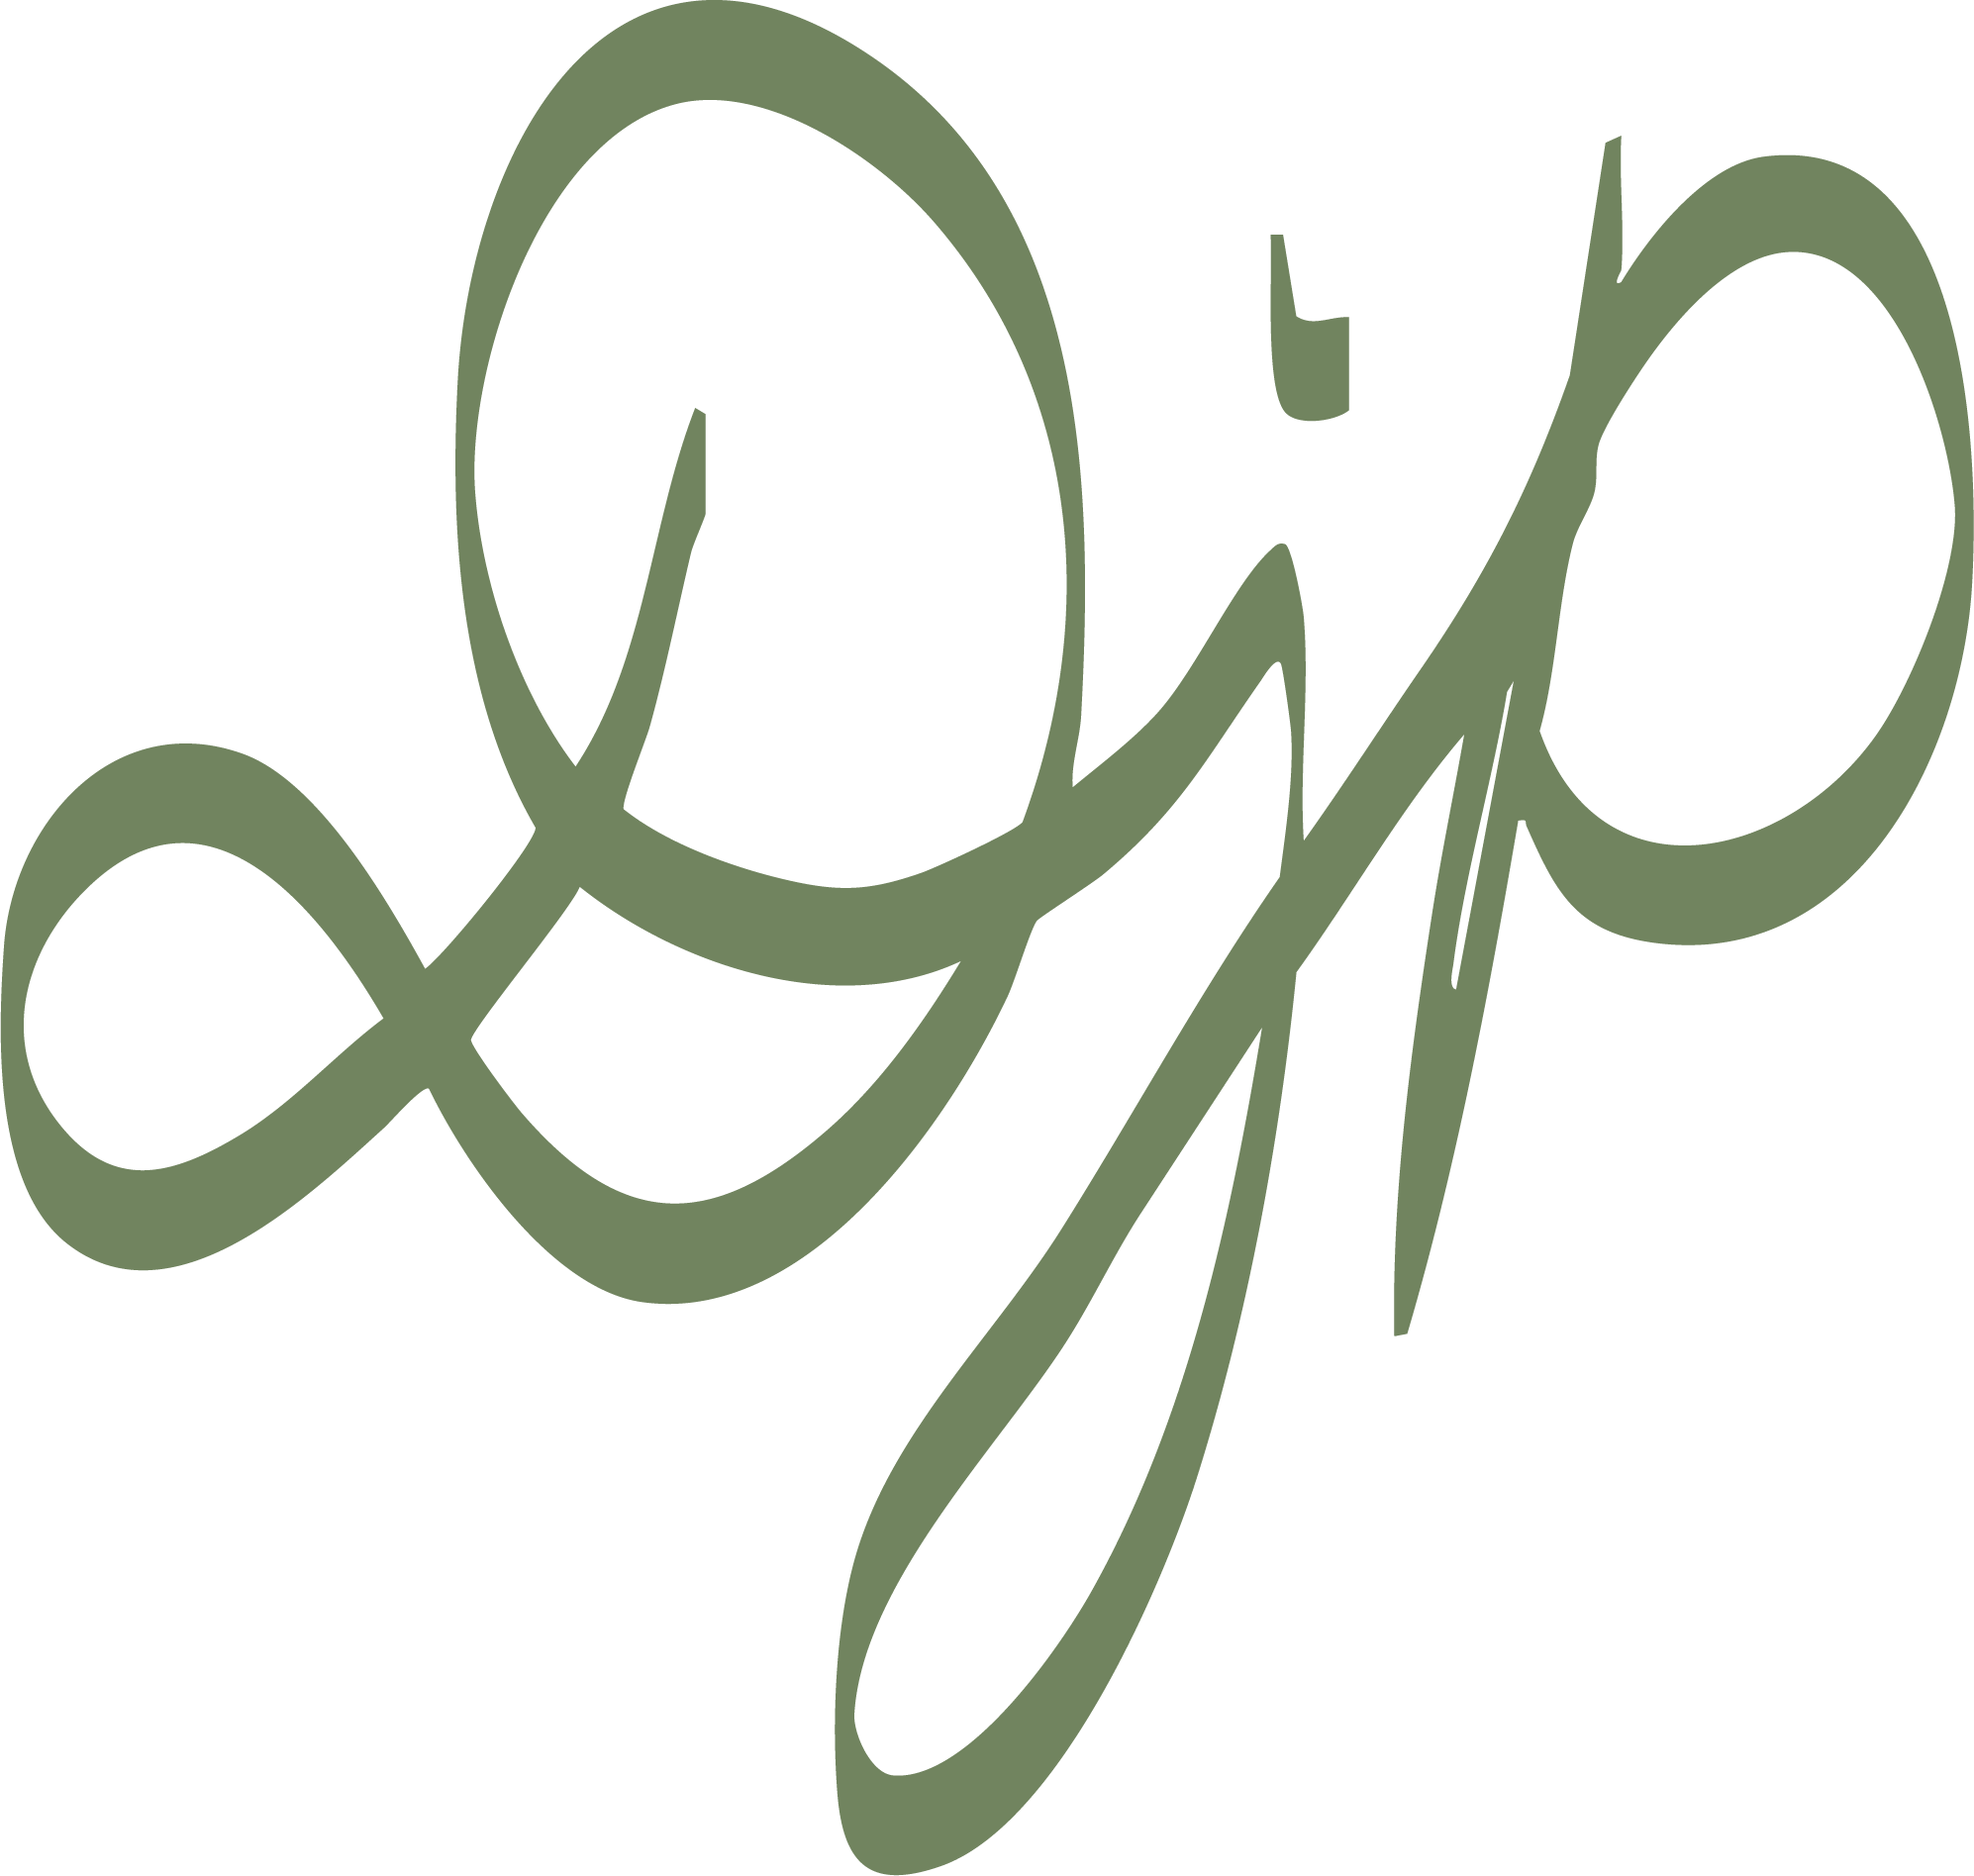
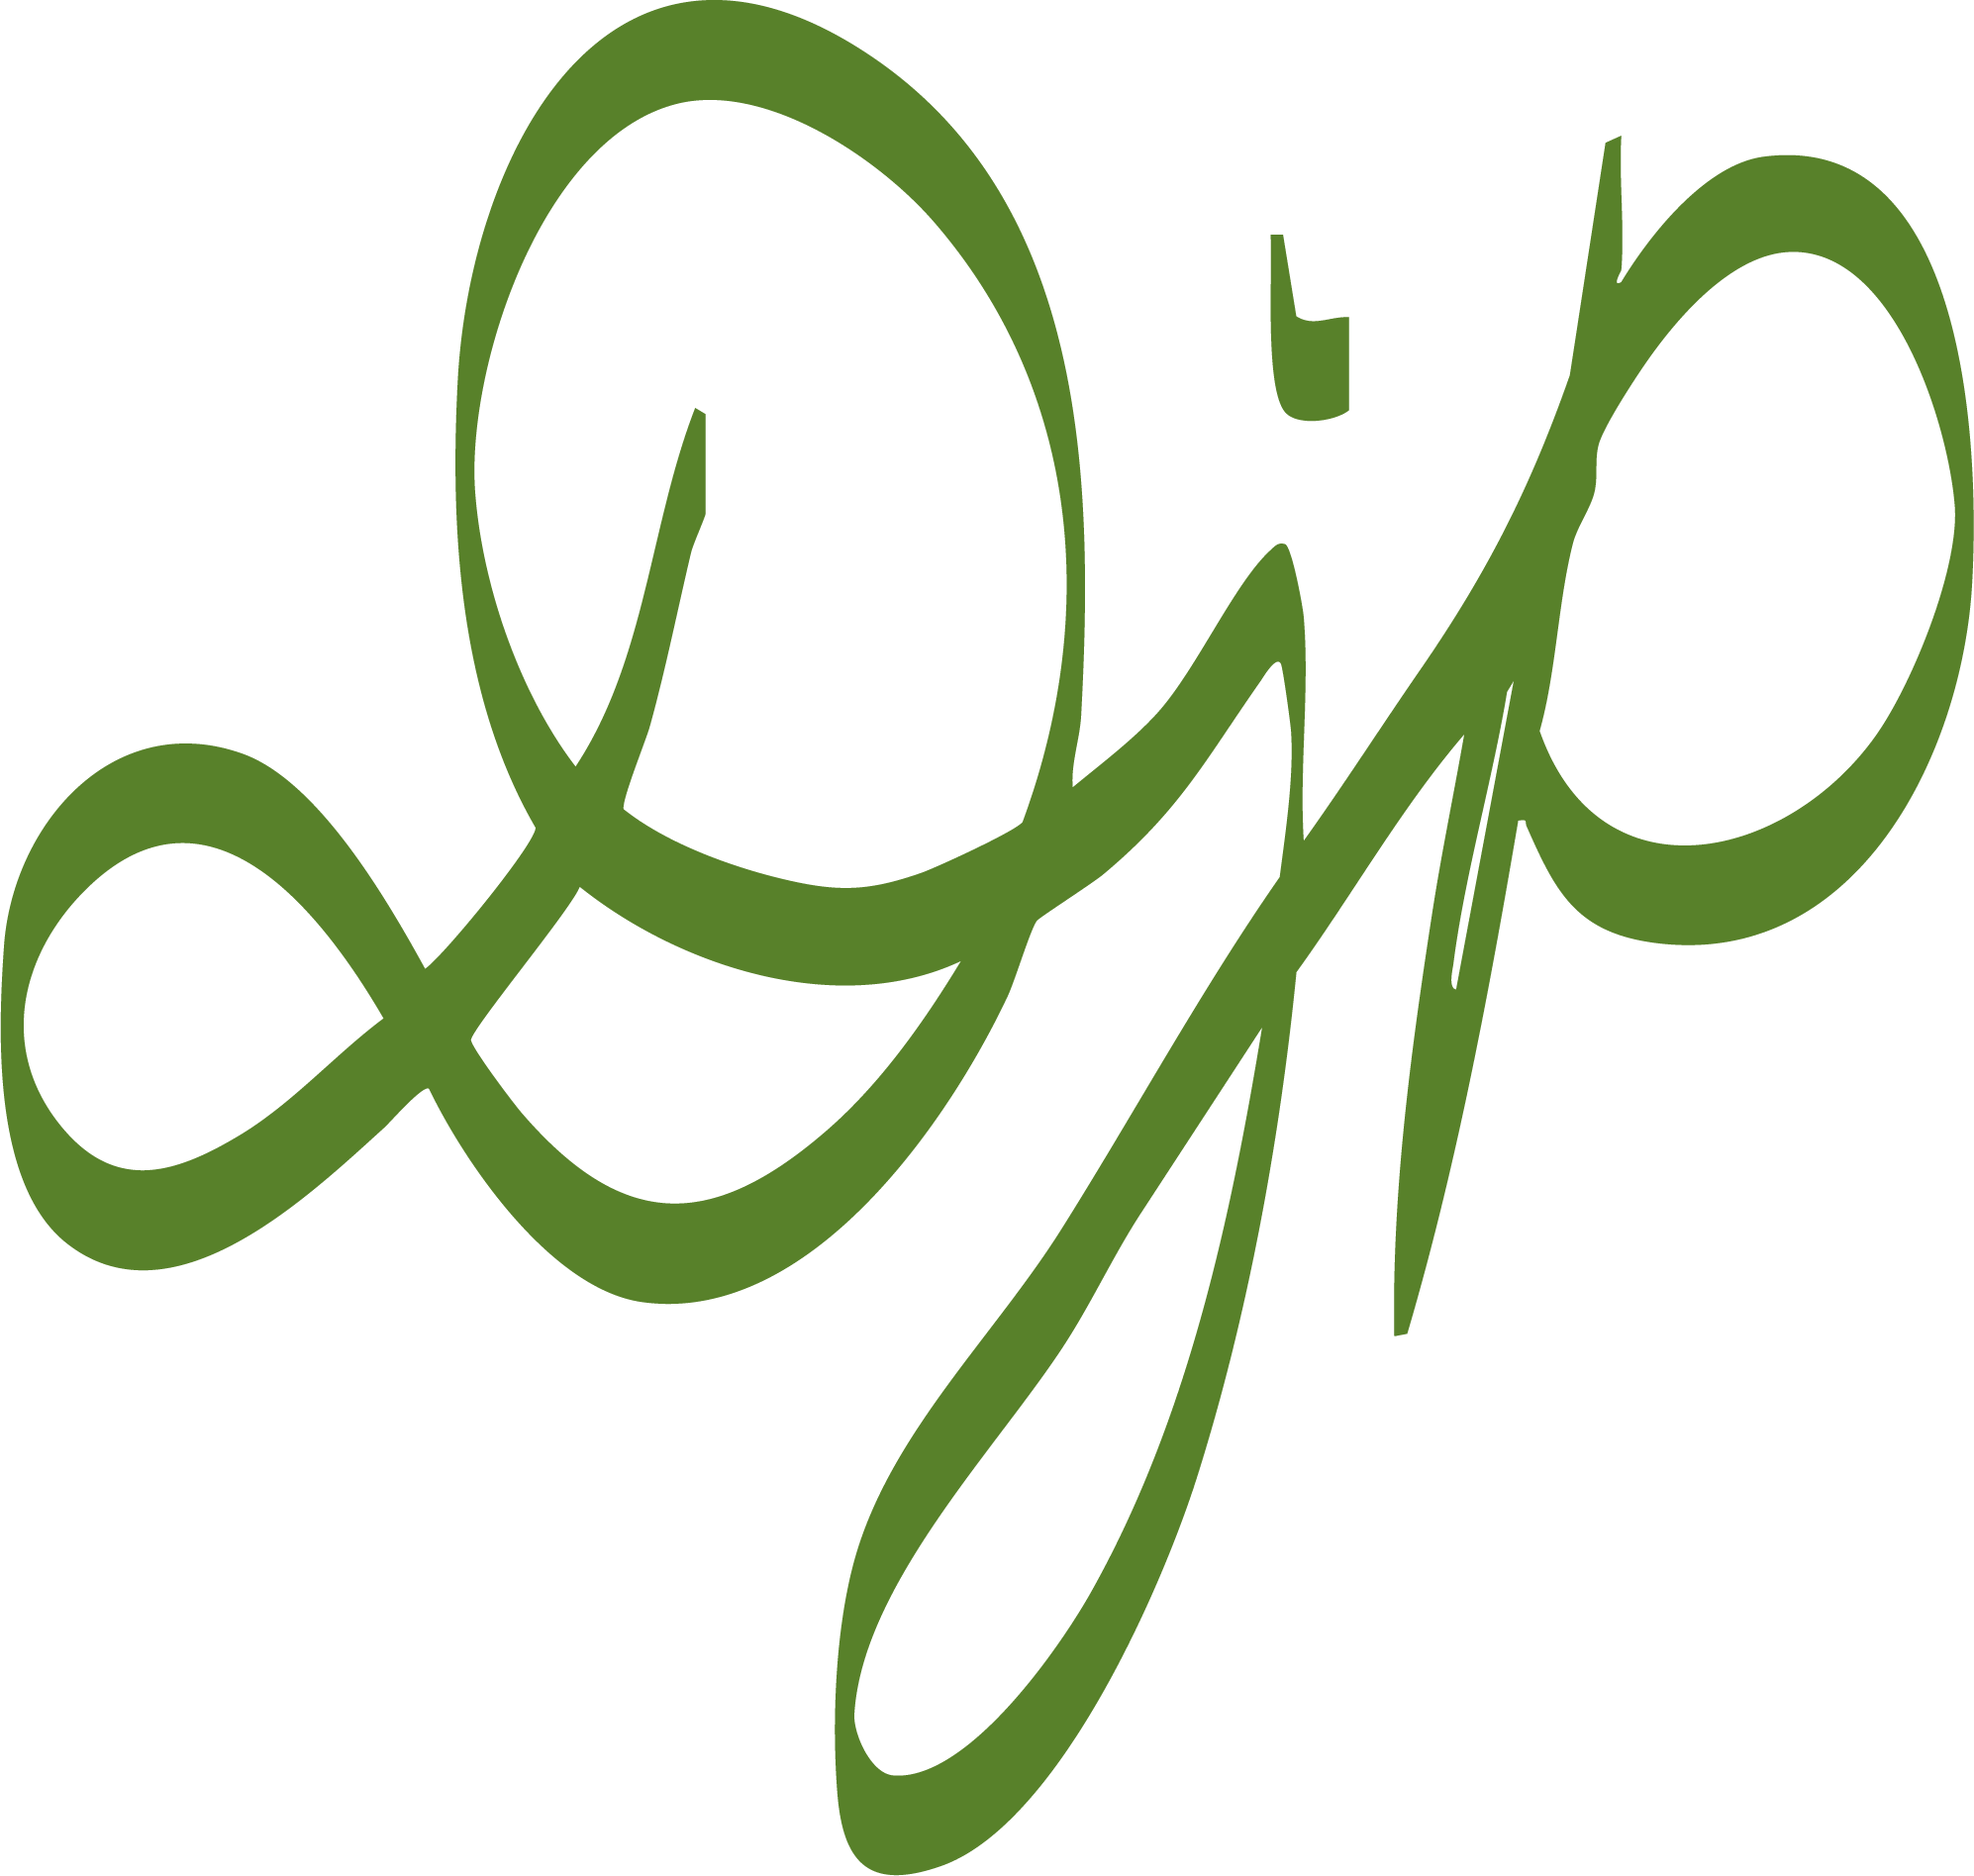
styling

Changed region(s): [[0.0, 0.0, 1.0, 1.0], [0.6219, 0.1245, 0.6841, 0.2491]]

diff --git a/public/css/custom.css b/public/css/custom.css
@@ -1,12 +1,48 @@
 /* General styling */
 :root {
-  /* See variables.scss for more variables */
+    /* === Cover / Landing area === */
+    --cover-text-color: #58812a;
+    --btn-site-menu: #745E96 !important;
+    /* Used for Landing screen menu buttons, but potentially usable for highlighting other things */
+    --highlight: #58812a;
+    --highlight-contrast: var(--cover-text-color);
+    /*inverse colors used for :hover */
+    --highlight-inverse: var(--cover-text-color);
+    --highlight-inverse-contrast: white;
 
-  --section-light-text-color: #3a4145 !important;
-  --section-light-bg-color: white !important;
-  --section-dark-bg-color: #745E96 !important;
-  --btn-site-menu: #745E96 !important;
-  --green-text-darker: #71845F !important;
+    /* === sticky top/left navigation menus === */
+    --sticky-menu-text-color: #9fd067;
+
+
+    /* === Alternating content (post) sections  === */
+    /* Light section - text color */
+    --section-light-text-color: #3a4145 !important;
+    /* Light section - background color */
+    --section-light-bg-color: #f2efe8;
+
+    /* Dark section - text color */
+    --section-dark-text-color: var(--section-light-bg-color);
+    /* Dark section - background color */
+    --section-dark-bg-color: #745E96 !important;
+
+
+    /* Light&Dark section >quote. Suppressive color, compared to 'Light section - text color'*/
+    --section-uni-quote: grey;
+    /* Light&Dark section `code` a bit darker than 'Light section - background color' */
+    --section-uni-code-bg-color: #e0ded7;
+
+    /* === Single pages=== */
+    --single-page-text-color: var(--section-light-text-color);
+    --single-page-bg-color: var(--section-light-bg-color);
+
+    /* === Footer === */
+    --footer-color-background: #22343a;
+    --footer-color: #bbc7cc;
+
+    /* === Lists === */
+    /* define list element for unnumbered lists, leave empty for default list element */
+    --ul-li-icon: fa-asterisk;
+
 
   /* Define list element for unnumbered lists */
   /* fa-asterisk is the default icon if this variable definition is missing completely */
@@ -17,19 +53,19 @@
 /* Begin styling for menu buttons and nav menu */
 a.btn.site-menu {
   background-color: var(--btn-site-menu) !important;
-  color: white !important;
+  color: var(--section-light-bg-color) !important;
 }
 #header-arrow i {
   color: var(--btn-site-menu) !important;
 }
-.fn-item,
-.blog-title,
-.blog-description {
-  color: var(--green-text-darker) !important;
+.fn-item {
+  color: var(--section-dark-bg-color) !important;
 }
+
 .fn-item:hover,
+.fn-item:focus,
 .fn-item.active {
-    color: var(--btn-site-menu) !important;
+  color: var(--highlight) !important;
 }
 /* End syling for menu buttons and nav menu */
 
@@ -42,7 +78,7 @@ a.btn.site-menu {
   margin: 20px auto;
   padding: 10px 20px;
   background: rgba(255, 255, 255, 0.05); /* Soft overlay effect */
-  border-radius: 5px;
+  border-radius: 10px;
 }
 
 /* Vertical line */
@@ -67,10 +103,19 @@ a.btn.site-menu {
 .quote-attribution {
   display: block;
   text-align: right;
-  font-size: 1.2rem;
+  font-size: 1.4rem;
   font-weight: bold;
   color: #B5C99A;
   opacity: 0.9;
   margin-top: 10px;
 }
 /* End quote styling */
+
+/* Start footer styling */
+.site-footer {
+  background-color: #473460; 
+  color: var(--section-light-bg-color); 
+  padding: 20px;
+  text-align: center;
+}
+/* End footer styling */

diff --git a/static/css/custom.css b/static/css/custom.css
@@ -1,12 +1,48 @@
 /* General styling */
 :root {
-  /* See variables.scss for more variables */
+    /* === Cover / Landing area === */
+    --cover-text-color: #58812a;
+    --btn-site-menu: #745E96 !important;
+    /* Used for Landing screen menu buttons, but potentially usable for highlighting other things */
+    --highlight: #58812a;
+    --highlight-contrast: var(--cover-text-color);
+    /*inverse colors used for :hover */
+    --highlight-inverse: var(--cover-text-color);
+    --highlight-inverse-contrast: white;
 
-  --section-light-text-color: #3a4145 !important;
-  --section-light-bg-color: white !important;
-  --section-dark-bg-color: #745E96 !important;
-  --btn-site-menu: #745E96 !important;
-  --green-text-darker: #71845F !important;
+    /* === sticky top/left navigation menus === */
+    --sticky-menu-text-color: #9fd067;
+
+
+    /* === Alternating content (post) sections  === */
+    /* Light section - text color */
+    --section-light-text-color: #3a4145 !important;
+    /* Light section - background color */
+    --section-light-bg-color: #f2efe8;
+
+    /* Dark section - text color */
+    --section-dark-text-color: var(--section-light-bg-color);
+    /* Dark section - background color */
+    --section-dark-bg-color: #745E96 !important;
+
+
+    /* Light&Dark section >quote. Suppressive color, compared to 'Light section - text color'*/
+    --section-uni-quote: grey;
+    /* Light&Dark section `code` a bit darker than 'Light section - background color' */
+    --section-uni-code-bg-color: #e0ded7;
+
+    /* === Single pages=== */
+    --single-page-text-color: var(--section-light-text-color);
+    --single-page-bg-color: var(--section-light-bg-color);
+
+    /* === Footer === */
+    --footer-color-background: #22343a;
+    --footer-color: #bbc7cc;
+
+    /* === Lists === */
+    /* define list element for unnumbered lists, leave empty for default list element */
+    --ul-li-icon: fa-asterisk;
+
 
   /* Define list element for unnumbered lists */
   /* fa-asterisk is the default icon if this variable definition is missing completely */
@@ -17,19 +53,19 @@
 /* Begin styling for menu buttons and nav menu */
 a.btn.site-menu {
   background-color: var(--btn-site-menu) !important;
-  color: white !important;
+  color: var(--section-light-bg-color) !important;
 }
 #header-arrow i {
   color: var(--btn-site-menu) !important;
 }
-.fn-item,
-.blog-title,
-.blog-description {
-  color: var(--green-text-darker) !important;
+.fn-item {
+  color: var(--section-dark-bg-color) !important;
 }
+
 .fn-item:hover,
+.fn-item:focus,
 .fn-item.active {
-    color: var(--btn-site-menu) !important;
+  color: var(--highlight) !important;
 }
 /* End syling for menu buttons and nav menu */
 
@@ -42,7 +78,7 @@ a.btn.site-menu {
   margin: 20px auto;
   padding: 10px 20px;
   background: rgba(255, 255, 255, 0.05); /* Soft overlay effect */
-  border-radius: 5px;
+  border-radius: 10px;
 }
 
 /* Vertical line */
@@ -67,10 +103,19 @@ a.btn.site-menu {
 .quote-attribution {
   display: block;
   text-align: right;
-  font-size: 1.2rem;
+  font-size: 1.4rem;
   font-weight: bold;
   color: #B5C99A;
   opacity: 0.9;
   margin-top: 10px;
 }
 /* End quote styling */
+
+/* Start footer styling */
+.site-footer {
+  background-color: #473460; 
+  color: var(--section-light-bg-color); 
+  padding: 20px;
+  text-align: center;
+}
+/* End footer styling */

diff --git a/public/index.html b/public/index.html
@@ -387,7 +387,7 @@ In his free time, Dan enjoys reading, making music, cooking, and trying to garde
                 </header>
                 <section class="post-content">
                     <p>This website was created using the <a href="https://gohugo.io/">Hugo</a> static site generator and is hosted on <a href="https://pages.github.com/">GitHub Pages</a>.</p>
-<p>The custom theme is based on <a href="https://themes.gohugo.io/themes/hugo-scroll/">Hugo Scroll</a> originally by <a href="https://www.janraasch.com/">Jan Raasch</a> and <a href="https://github.com/zjedi">Zdenek Kedaj</a>.</p>
+<p>The theme is a modified version of <a href="https://themes.gohugo.io/themes/hugo-scroll/">Hugo Scroll</a>, originally by <a href="https://www.janraasch.com/">Jan Raasch</a> and <a href="https://github.com/zjedi">Zdenek Kedaj</a>.</p>
 <p>Header image from <a href="https://unsplash.com/photos/purple-lavender-field-overlooking-mountains-during-daytime-Txjvtscb6Fo">Noah Baslé</a> on <a href="https://unsplash.com/">Unsplash</a>.</p>
 
                 </section>

diff --git a/content/homepage/about-site.md b/content/homepage/about-site.md
@@ -6,6 +6,6 @@ header_menu: false
 
 This website was created using the [Hugo](https://gohugo.io/) static site generator and is hosted on [GitHub Pages](https://pages.github.com/).
 
-The custom theme is based on [Hugo Scroll](https://themes.gohugo.io/themes/hugo-scroll/) originally by [Jan Raasch](https://www.janraasch.com/) and [Zdenek Kedaj](https://github.com/zjedi).
+The theme is a modified version of [Hugo Scroll](https://themes.gohugo.io/themes/hugo-scroll/), originally by [Jan Raasch](https://www.janraasch.com/) and [Zdenek Kedaj](https://github.com/zjedi).
 
 Header image from [Noah Baslé](https://unsplash.com/photos/purple-lavender-field-overlooking-mountains-during-daytime-Txjvtscb6Fo) on [Unsplash](https://unsplash.com/).
